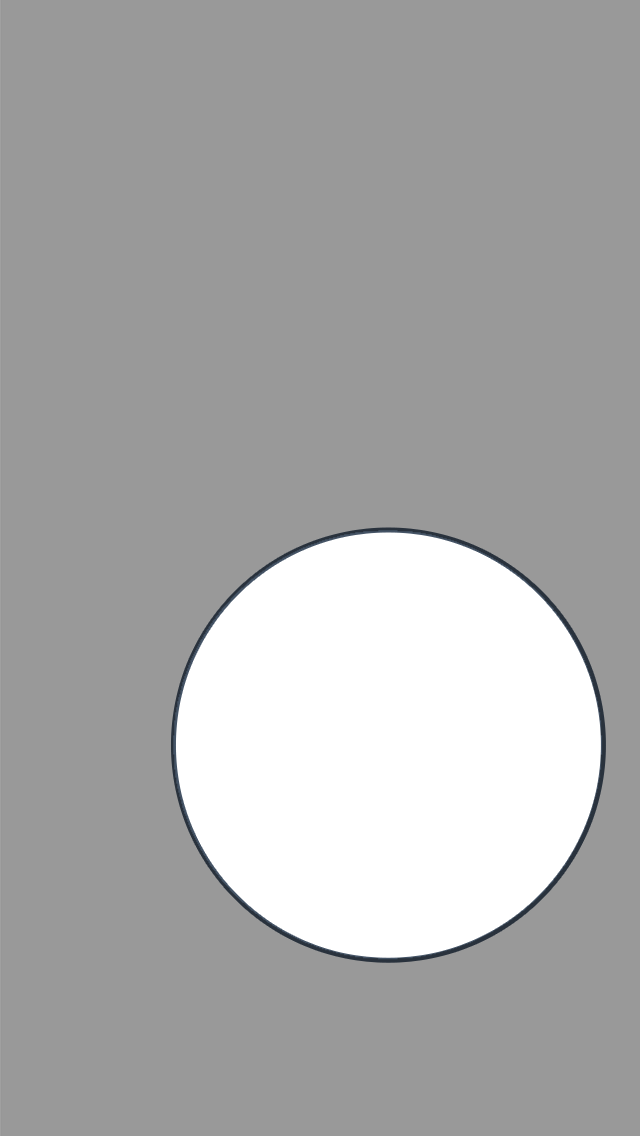
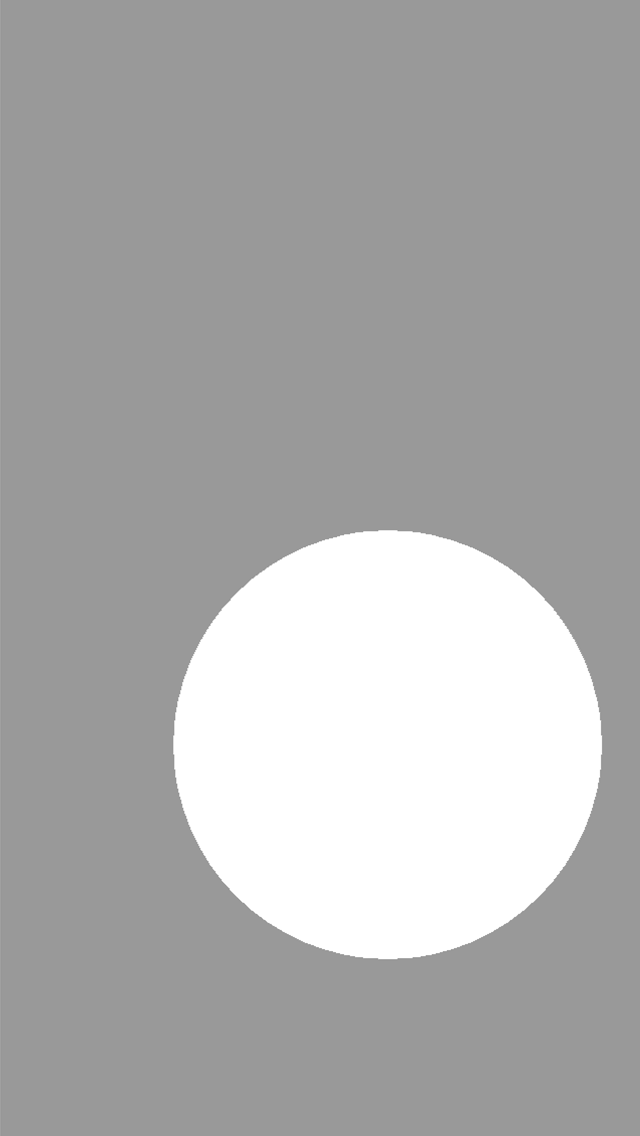
Initial round of feedback
From talking to Kai, I’ve reduced the bounce, and added a radial grow.

diff --git a/gonnago/01_Map_View.framer/imported/01 Map View/layers.json.js b/gonnago/01_Map_View.framer/imported/01 Map View/layers.json.js
@@ -23,7 +23,7 @@ window.__imported__["01 Map View/layers.json.js"] = [
 		"children": [
 			
 		],
-		"modification": "2122644020"
+		"modification": "983582010"
 	},
 	{
 		"id": 1725,
@@ -61,7 +61,7 @@ window.__imported__["01 Map View/layers.json.js"] = [
 				"children": [
 					
 				],
-				"modification": "2143783461"
+				"modification": "982837324"
 			},
 			{
 				"id": 1727,
@@ -120,10 +120,10 @@ window.__imported__["01 Map View/layers.json.js"] = [
 								"children": [
 									
 								],
-								"modification": "815077178"
+								"modification": "566675738"
 							}
 						],
-						"modification": "1311001408"
+						"modification": "798076546"
 					},
 					{
 						"id": 1814,
@@ -161,7 +161,7 @@ window.__imported__["01 Map View/layers.json.js"] = [
 								"children": [
 									
 								],
-								"modification": "328684865"
+								"modification": "1816386919"
 							},
 							{
 								"id": 1901,
@@ -186,7 +186,7 @@ window.__imported__["01 Map View/layers.json.js"] = [
 								"children": [
 									
 								],
-								"modification": "1298024548"
+								"modification": "786633990"
 							},
 							{
 								"id": 1894,
@@ -211,7 +211,7 @@ window.__imported__["01 Map View/layers.json.js"] = [
 								"children": [
 									
 								],
-								"modification": "609653380"
+								"modification": "1054352798"
 							},
 							{
 								"id": 1880,
@@ -236,7 +236,7 @@ window.__imported__["01 Map View/layers.json.js"] = [
 								"children": [
 									
 								],
-								"modification": "1610028940"
+								"modification": "819314596"
 							},
 							{
 								"id": 1873,
@@ -261,7 +261,7 @@ window.__imported__["01 Map View/layers.json.js"] = [
 								"children": [
 									
 								],
-								"modification": "518195503"
+								"modification": "584276394"
 							},
 							{
 								"id": 1909,
@@ -286,7 +286,7 @@ window.__imported__["01 Map View/layers.json.js"] = [
 								"children": [
 									
 								],
-								"modification": "825231113"
+								"modification": "1296029222"
 							},
 							{
 								"id": 1771,
@@ -311,13 +311,38 @@ window.__imported__["01 Map View/layers.json.js"] = [
 								"children": [
 									
 								],
-								"modification": "826591160"
+								"modification": "1410590175"
 							}
 						],
-						"modification": "1548639564"
+						"modification": "1090564055"
 					}
 				],
-				"modification": "79074414"
+				"modification": "2125959695"
+			},
+			{
+				"id": 2095,
+				"name": "Radius",
+				"layerFrame": {
+					"x": 0,
+					"y": 0,
+					"width": 640,
+					"height": 1136
+				},
+				"maskFrame": null,
+				"image": {
+					"path": "images/Radius.png",
+					"frame": {
+						"x": 170,
+						"y": 527,
+						"width": 436,
+						"height": 436
+					}
+				},
+				"imageType": "png",
+				"children": [
+					
+				],
+				"modification": "983582007"
 			},
 			{
 				"id": 2067,
@@ -342,10 +367,10 @@ window.__imported__["01 Map View/layers.json.js"] = [
 				"children": [
 					
 				],
-				"modification": "825146668"
+				"modification": "983582006"
 			}
 		],
-		"modification": "822316051"
+		"modification": "1198783736"
 	},
 	{
 		"id": 1723,
@@ -412,13 +437,13 @@ window.__imported__["01 Map View/layers.json.js"] = [
 						"children": [
 							
 						],
-						"modification": "2143634511"
+						"modification": "982837297"
 					}
 				],
-				"modification": "315149072"
+				"modification": "2045206175"
 			}
 		],
-		"modification": "28486082"
+		"modification": "289673774"
 	},
 	{
 		"id": 1713,
@@ -477,10 +502,10 @@ window.__imported__["01 Map View/layers.json.js"] = [
 						"children": [
 							
 						],
-						"modification": "766172951"
+						"modification": "695422043"
 					}
 				],
-				"modification": "1392913147"
+				"modification": "1347529705"
 			},
 			{
 				"id": 1719,
@@ -518,7 +543,7 @@ window.__imported__["01 Map View/layers.json.js"] = [
 						"children": [
 							
 						],
-						"modification": "790127599"
+						"modification": "1439929610"
 					},
 					{
 						"id": 2063,
@@ -533,8 +558,8 @@ window.__imported__["01 Map View/layers.json.js"] = [
 						"image": {
 							"path": "images/Image.png",
 							"frame": {
-								"x": 541,
-								"y": 44,
+								"x": 498,
+								"y": 18,
 								"width": 86,
 								"height": 86
 							}
@@ -543,12 +568,12 @@ window.__imported__["01 Map View/layers.json.js"] = [
 						"children": [
 							
 						],
-						"modification": "2142770727"
+						"modification": "982807721"
 					}
 				],
-				"modification": "245927784"
+				"modification": "36130667"
 			}
 		],
-		"modification": "1861321175"
+		"modification": "1804249959"
 	}
 ]

diff --git a/gonnago/01_Map_View.framer/app.js b/gonnago/01_Map_View.framer/app.js
@@ -57,33 +57,49 @@ $locator.on(window.Events.Click,function(){
 });
 
 var $overlay = myLayers.Overlay;
-$overlay.x = -300;
-$overlay.y = -600;
-$overlay.scale = 4;
+$overlay.opacity = 0;
+
+var $radius = myLayers.Radius;
+$radius.scale = 0.01;
+$radius.x = 170;
+$radius.y = 530;
 
 var pins = [];
 var pinlLength = 7;
 
 for(var i = 0;i < pinlLength;i++){
 	pins[i] =  window['$pin'+Number(i+1)] = myLayers['Pin-'+Number(i+1)];
-	U.iniPos(pins[i],0,-1080);
+	U.iniPos(pins[i],0,0);
 }
 
 var $author = myLayers['Author Pin'];
 
 U.iniPos($author,0,-1080);
 
+U.forEach(pins,function(item,index){
+	item.opacity = 0;
+	item.scale = 0.7;
+});
+
 var initialise = function(){
 	$overlay.animate({
 		properties: {
-			x:0,
-			y:0,
+			opacity:1
+		},
+		curve: "linear",
+		delay:1.9
+	});
+
+	$radius.animate({
+		properties: {
+			//x:0,
+			//y:0,
 			scale:1
 		},
 		curve: "spring",
 		curveOptions: {
 			friction: 18,
-			tension: 100,
+			tension: 50,
 			velocity: 0
 		},
 		delay:1.2
@@ -104,7 +120,8 @@ var initialise = function(){
 	U.forEach(pins,function(item,index){
 		item.animate({
 			properties: {
-				y: item.iniPos.y
+				scale:1,
+				opacity:1
 			},
 			curve: "spring",
 			curveOptions: {
@@ -112,7 +129,7 @@ var initialise = function(){
 				tension: 110,
 				velocity: 8
 			},
-			delay:2+index/5
+			delay:1.3+index/5
 		});
 	});
 };

diff --git a/gonnago/01_Map_View.framer/index.html b/gonnago/01_Map_View.framer/index.html
@@ -23,8 +23,7 @@
 		</style>
 
 		<script src="framer/framer.js"></script>
-
-		<!-- Things inserted by Framer Generator -->
+		<!-- Things inserted by Framer Generator  -->
 		<script src="imported/01 Map View/layers.json.js"></script>
 
 	</head>
